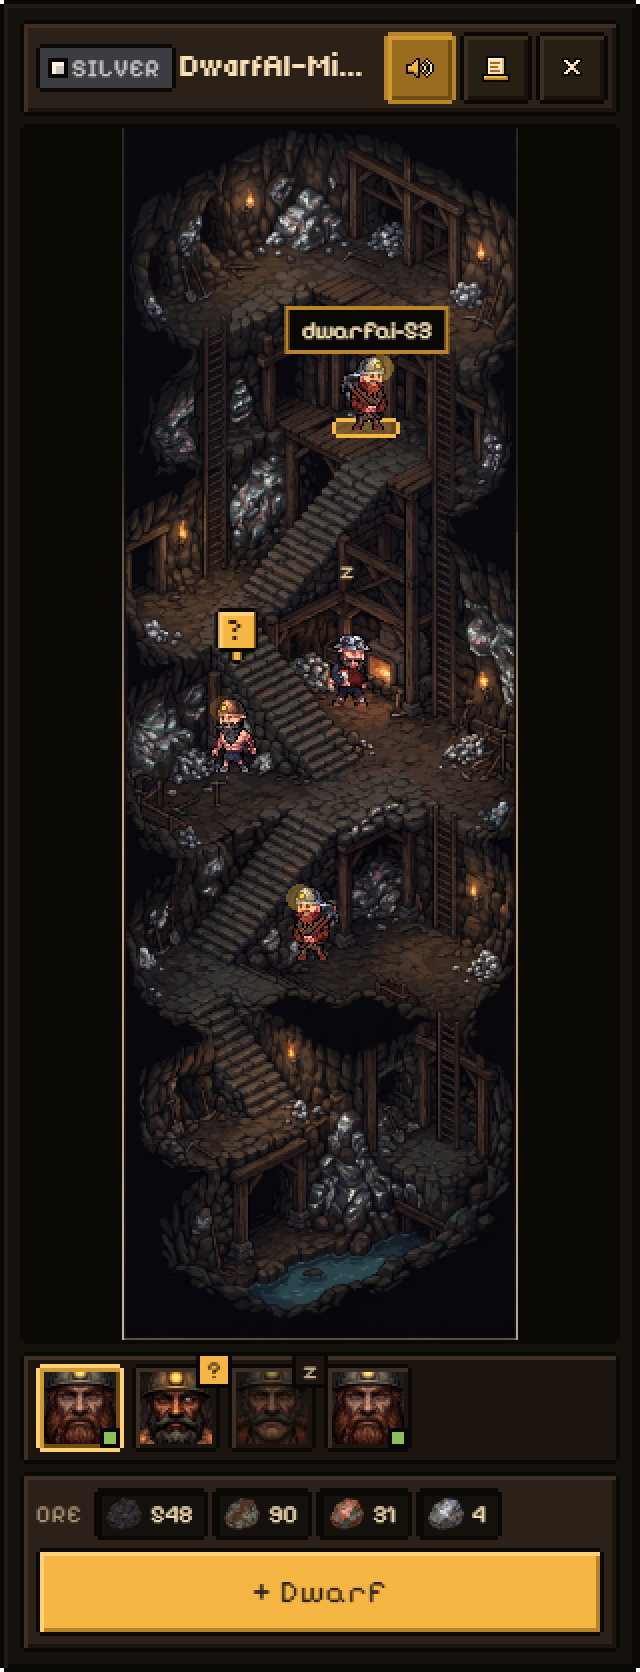
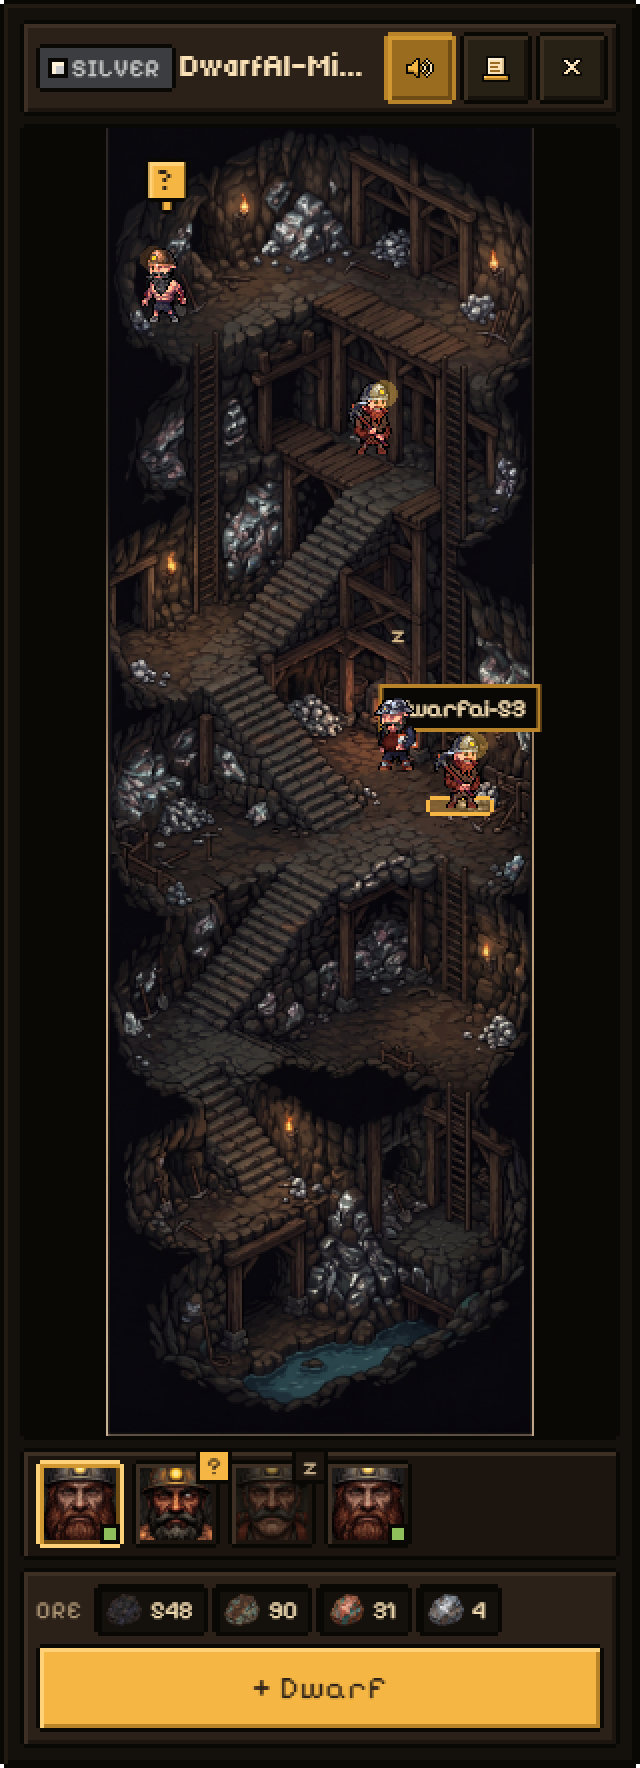
docs(readme): show the three modes and what v0.22.0 adds
Add a Three ways to watch section with the Panel, Veta and Valle, each
with what you can do in it and how the mode lever switches between
them, and the new Veta, Control room and Work front art. The Status
section now names v0.22.0 and its Veta and Valle.

The art is regenerated from the design repository's generator. The
mine column, mine cards and question cards change because their
prototype sources changed; the question card grows to keep Back and
Next in view.

diff --git a/README.md b/README.md
@@ -37,10 +37,11 @@ DwarfAI-Miners has been rebuilt from the ground up. The app is now two parts:
 - the **window**, an Electron client of the Host. Closing it never ends a session; the Host keeps
   running, with its tray icon, until you choose **Stop everything and quit…** in the tray menu.
 
-**[v0.21.1](https://github.com/JeronimoRepetto/DwarfAI-Miners/releases/tag/v0.21.1) is the latest
-preview of the rebuilt app.** It adds Veta, the compact mode you reach from the Panel's **▼ Veta**
-lever, and the **Mode at launch** choice in Settings › General. It has installers for Windows, macOS
-and Linux, plus `SHA256SUMS`.
+**[v0.22.0](https://github.com/JeronimoRepetto/DwarfAI-Miners/releases/tag/v0.22.0) is the latest
+preview of the rebuilt app.** It completes the three modes: beside the Panel there is now **Veta**,
+the compact strip at the screen edge, and **Valle**, the full workspace with every mine at once (see
+[Three ways to watch](#three-ways-to-watch)). **Mode at launch** in Settings › General picks the one
+the app opens in. It has installers for Windows, macOS and Linux, plus `SHA256SUMS`.
 The builds are not signed yet, so Windows SmartScreen and macOS Gatekeeper ask before the first
 open; the release notes say how to get past them. The work still open before v1 is in EPIC-17
 (packaging and distribution): signing and notarization in the release pipeline, the release job
@@ -99,6 +100,69 @@ not this one.
 <p align="center">
   <img src="docs/readme/crew.svg" width="644" alt="The crew at work: two workers swinging pickaxes, a foreman standing by and a foreman asleep">
 </p>
+
+<p align="center"><img src="docs/readme/plates/three-ways-to-watch.png" width="644" alt="Section plate: Three ways to watch"></p>
+
+## Three ways to watch
+
+The app grows and shrinks along one ladder: **Valle ⇄ Panel ⇄ Veta**. The **mode lever** jumps
+straight to the mode it names, and your dwarfs keep working whichever one is showing.
+
+| Mode      | What it is                                              | Switch with                                       |
+| --------- | ------------------------------------------------------- | ------------------------------------------------- |
+| **Panel** | The floating panel: Map, Mines and Settings, full chats | **▲ Valle** / **▼ Veta** at the bottom of the nav |
+| **Veta**  | A compact strip at a screen edge                        | **▲** at the strip's end; the grip menu           |
+| **Valle** | The full workspace: every mine at once, chats pinned    | **▼ Panel** / **▼ Veta** in the top bar           |
+
+### Panel
+
+The default mode, and the one the [Highlights](#highlights) show.
+
+- **The nav** reaches the Map, the Mines page and Settings.
+- **The mine column** shows a mine's interior with its crew, its roster, its ore and **+ Dwarf**.
+- **Click a dwarf for its full chat:** the conversation, the folded tool steps, and its questions
+  and permissions.
+- **The mode lever** sits at the bottom of the nav: **▲ Valle** above **▼ Veta**.
+
+### Veta
+
+<p align="center">
+  <img src="docs/readme/cards/veta.png" width="644" alt="Veta: a strip at the bottom edge of the screen with the grip, a +2 for two more mines, four mine chambers trimmed in their tier colours with their dwarfs working, asking and asleep, and the ▲ that opens the Panel; above it, the chat of an asking dwarf risen from the strip, with a question card on step 1 of 3">
+</p>
+
+- **Every mine at work gets a chamber,** its dwarfs at full size. A mine that needs you lights its
+  lamp and gets a heavy outline, and the asking dwarf raises **?**.
+- **Click a dwarf to open its chat,** risen from the strip: the same chat as in the Panel, with its
+  questions and permissions. A half-written message is kept as a draft.
+- **Hover a chamber for its mine tab:** open the Panel on that mine, or launch a new dwarf in it.
+- **As many chambers as fit show, up to four.** **+N** lists the rest, and the scroll wheel over
+  the strip cycles them.
+- **Drag the grip to any screen edge;** Veta snaps to it. The grip's menu holds **Open Panel**,
+  **Open Valle**, **New dwarf in…** and **Hide window**.
+- **With no sessions,** Veta shrinks to one closed mine entrance.
+
+### Valle
+
+<p align="center">
+  <img src="docs/readme/cards/valle-control-room.png" width="840" alt="Valle's Control room: the top bar with the Control room and Work front tabs, the ore total, 2 need you and the mode lever; the nav; two mine columns side by side, each with its tier, name, interior with its crew and roster; the pinned chats, with an asking dwarf's question card open and two more chats folded to one line; and the needs-you queue along the bottom with a question and a permission">
+</p>
+
+<p align="center">
+  <img src="docs/readme/cards/valle-work-front.png" width="840" alt="Valle's Work front: the same top bar with Work front selected; the mines list folded to a strip; one Silver mine large with its toolbar, crew, roster and + Dwarf; chat tabs with the split button, a working dwarf's conversation open with its composer and the History bar under it; and the needs-you queue">
+</p>
+
+- **Two presets in the top bar.** The **Control room** shows every mine with a crew as columns side
+  by side; the **Work front** shows one mine large with its chats as tabs.
+- **Dive in and climb out.** **⤢** or a double-click on a mine's art opens it in the Work front; the
+  Control room tab or Esc brings you back.
+- **Never miss a question.** **N need you ▸** jumps to the next dwarf waiting on you, and the
+  needs-you queue along the bottom lists every waiting question and permission across all mines,
+  oldest first.
+- **Pinned chats.** In the Control room the chat in focus is open and the others fold to one line;
+  in the Work front, **⫽** shows two chats side by side, and History opens as a drawer under them.
+- **Shape it your way.** Drag the splitter between the mines and the chats, add a column with
+  **Add a mine here**, and use **Reset preset** to put a preset back.
+- **▼ Panel** and **▼ Veta** take the chat in focus with you.
 
 ## How it works
 
